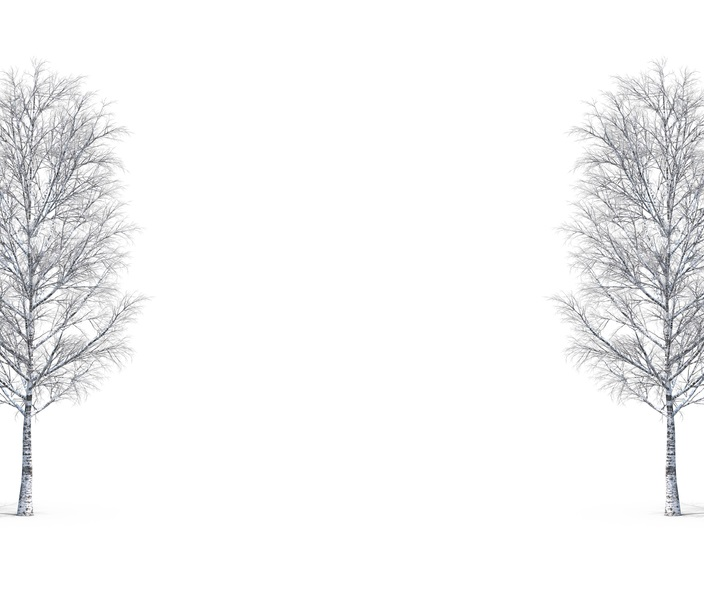
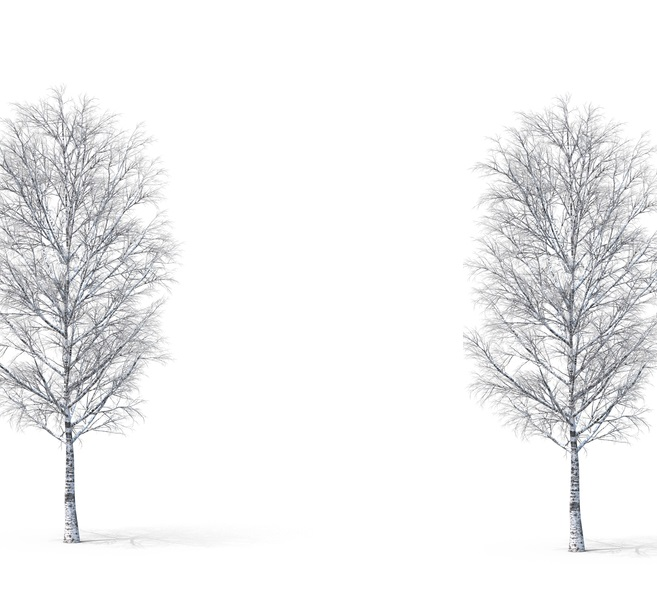
birches

Changed region(s): [[0.7002, 0.09, 1.0, 0.93], [0.0, 0.09, 0.274, 0.93], [0.1522, 0.87, 0.2131, 0.9]]

diff --git a/styles/styles.css b/styles/styles.css
@@ -1114,7 +1114,7 @@ textarea:focus::placeholder {
   .wrapper.home {
     background-color: white;
     background-image: url(../assets/home/birchH.jpg);
-    background-size: 110%;
+    background-size: 120%;
     background-repeat: no-repeat;
     background-position: center;
   }

diff --git a/styles/pages/_home.scss b/styles/pages/_home.scss
@@ -7,7 +7,7 @@
     // 690
     background-color: white;
     background-image: url(../assets/home/birchH.jpg);
-    background-size: 110%;
+    background-size: 120%;
     background-repeat: no-repeat;
     background-position: center;
   }
